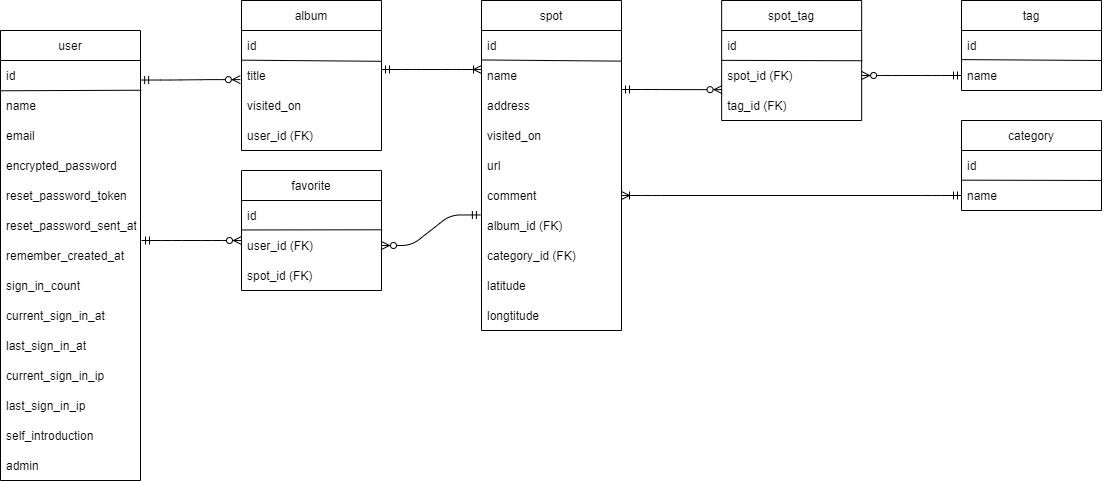
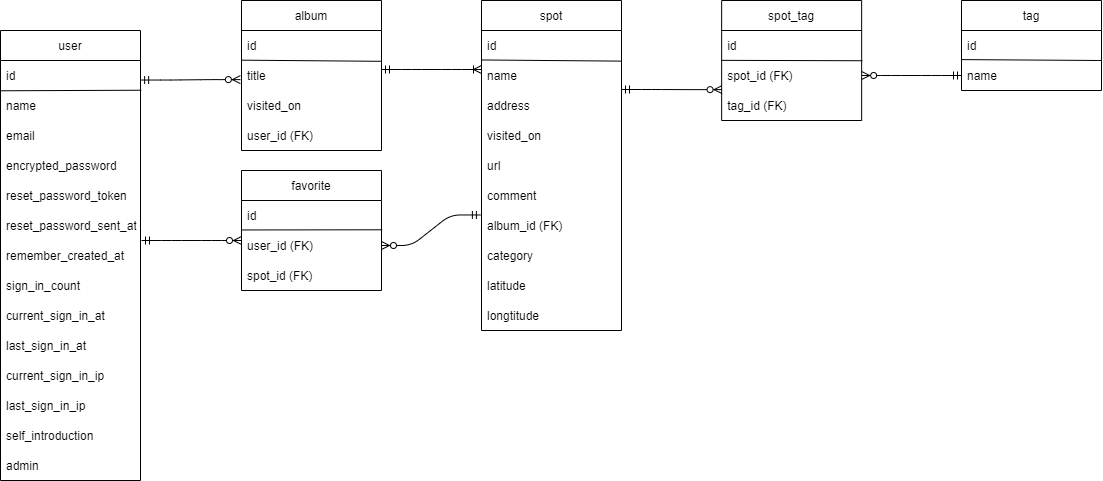
アソシエーションではなくspotにcategoryカラムを追加、enum設定、テーブル定義/er図/README変更

diff --git a/db/schema.rb b/db/schema.rb
@@ -10,7 +10,7 @@
 #
 # It's strongly recommended that you check this file into your version control system.
 
-ActiveRecord::Schema.define(version: 2022_09_20_081639) do
+ActiveRecord::Schema.define(version: 2022_09_21_045051) do
 
   # These are extensions that must be enabled in order to support this database
   enable_extension "plpgsql"
@@ -54,10 +54,8 @@ ActiveRecord::Schema.define(version: 2022_09_20_081639) do
 
   create_table "categories", force: :cascade do |t|
     t.string "name"
-    t.bigint "spot_id", null: false
     t.datetime "created_at", precision: 6, null: false
     t.datetime "updated_at", precision: 6, null: false
-    t.index ["spot_id"], name: "index_categories_on_spot_id"
   end
 
   create_table "spots", force: :cascade do |t|
@@ -71,6 +69,7 @@ ActiveRecord::Schema.define(version: 2022_09_20_081639) do
     t.bigint "album_id", null: false
     t.float "latitude"
     t.float "longitude"
+    t.integer "category", null: false
     t.index ["album_id"], name: "index_spots_on_album_id"
   end
 
@@ -97,6 +96,5 @@ ActiveRecord::Schema.define(version: 2022_09_20_081639) do
   add_foreign_key "active_storage_attachments", "active_storage_blobs", column: "blob_id"
   add_foreign_key "active_storage_variant_records", "active_storage_blobs", column: "blob_id"
   add_foreign_key "albums", "users"
-  add_foreign_key "categories", "spots"
   add_foreign_key "spots", "albums"
 end

diff --git a/app/controllers/spots_controller.rb b/app/controllers/spots_controller.rb
@@ -56,6 +56,6 @@ class SpotsController < ApplicationController
     end
 
     def spot_params
-      params.require(:spot).permit(:name, :address, :visited_on, :url, :comment,:album_id, :latitude, :longitude, images: [])
+      params.require(:spot).permit(:name, :address, :visited_on, :url, :comment, :album_id, :category, :latitude, :longitude, images: [])
     end
 end

diff --git a/app/models/spot.rb b/app/models/spot.rb
@@ -3,7 +3,8 @@ class Spot < ApplicationRecord
   geocoded_by :address
   after_validation :geocode, if: :address_changed?
 
-  has_one :category, dependent: :destroy
   #ActiveStorage
   has_many_attached :images
+
+  enum category: { 食事: 0, スイーツ: 1, その他: 2 }
 end

diff --git a/db/migrate/20220921044129_remove_category_key_from_spots.rb b/db/migrate/20220921044129_remove_category_key_from_spots.rb
@@ -1,0 +1,6 @@
+class RemoveCategoryKeyFromSpots < ActiveRecord::Migration[6.1]
+  def change
+    remove_foreign_key :spots, :categories
+    remove_reference :spots, :category, index: true
+  end
+end

diff --git a/db/migrate/20220921045051_add_category_to_spots.rb b/db/migrate/20220921045051_add_category_to_spots.rb
@@ -1,0 +1,5 @@
+class AddCategoryToSpots < ActiveRecord::Migration[6.1]
+  def change
+    add_column :spots, :category, :integer, null: false
+  end
+end
